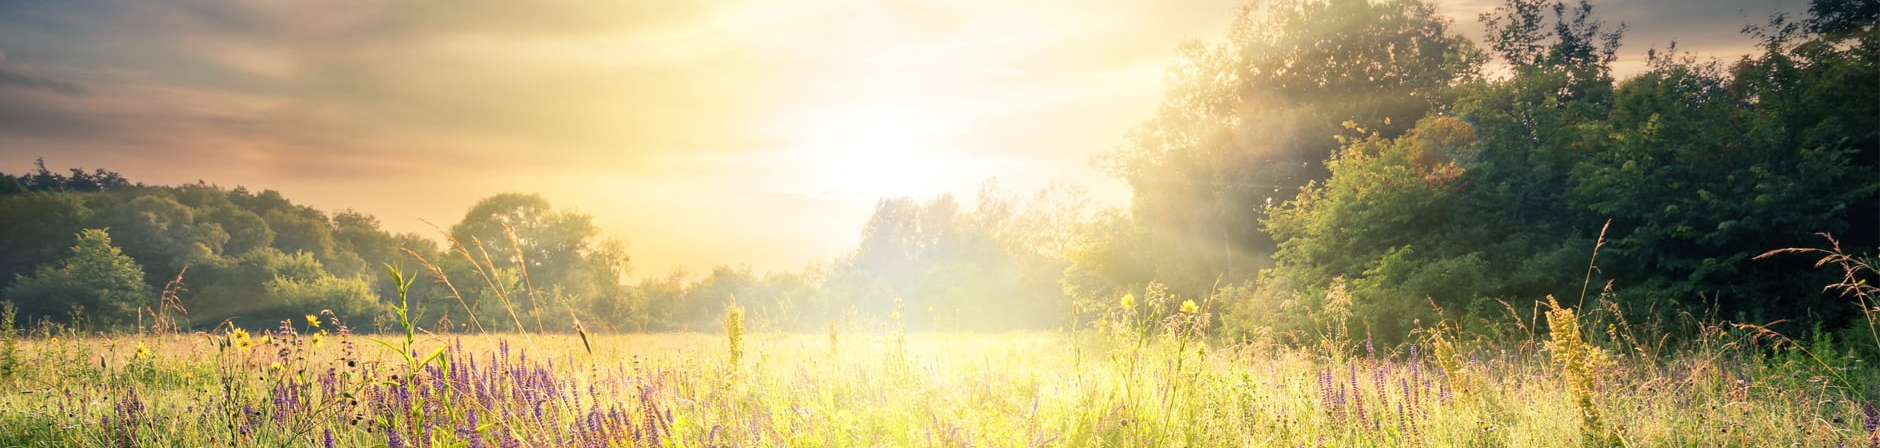
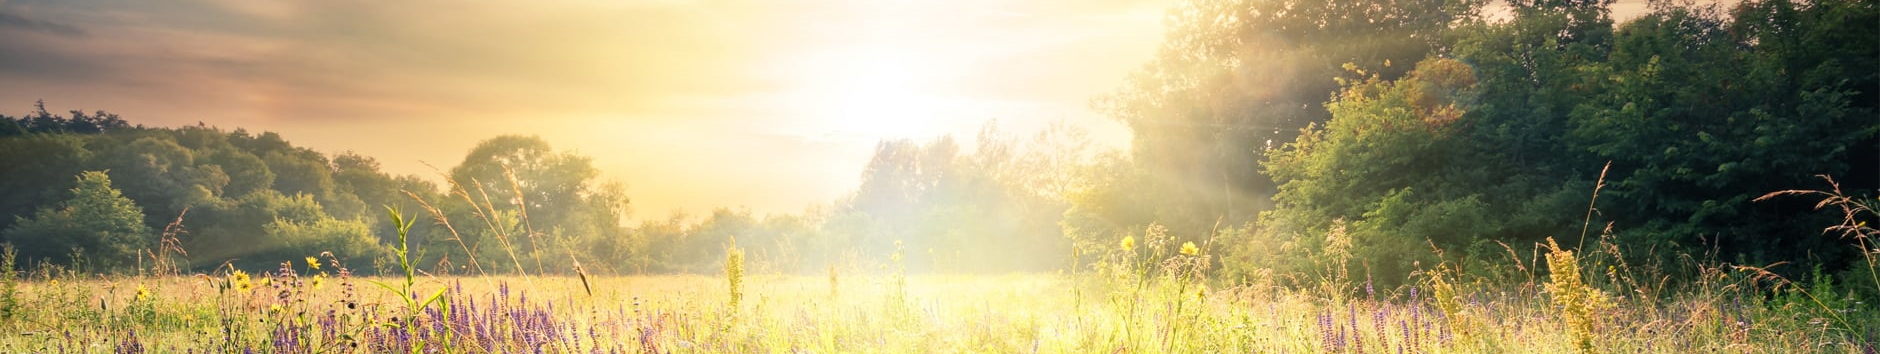
aaaaaaaaaaaaaaaaaaaaaaaaaaaaaaaaaaaaaaaa

diff --git a/src/main/web/structuring/shop.html b/src/main/web/structuring/shop.html
@@ -31,15 +31,7 @@
             </a>
         </li>
         <li>
-            <a href="#about">
-                <span>About</span>
-                <svg class="svg-icon" viewBox="0 0 20 20">
-                    <path d="M15.573,11.624c0.568-0.478,0.947-1.219,0.947-2.019c0-1.37-1.108-2.569-2.371-2.569s-2.371,1.2-2.371,2.569c0,0.8,0.379,1.542,0.946,2.019c-0.253,0.089-0.496,0.2-0.728,0.332c-0.743-0.898-1.745-1.573-2.891-1.911c0.877-0.61,1.486-1.666,1.486-2.812c0-1.79-1.479-3.359-3.162-3.359S4.269,5.443,4.269,7.233c0,1.146,0.608,2.202,1.486,2.812c-2.454,0.725-4.252,2.998-4.252,5.685c0,0.218,0.178,0.396,0.395,0.396h16.203c0.218,0,0.396-0.178,0.396-0.396C18.497,13.831,17.273,12.216,15.573,11.624 M12.568,9.605c0-0.822,0.689-1.779,1.581-1.779s1.58,0.957,1.58,1.779s-0.688,1.779-1.58,1.779S12.568,10.427,12.568,9.605 M5.06,7.233c0-1.213,1.014-2.569,2.371-2.569c1.358,0,2.371,1.355,2.371,2.569S8.789,9.802,7.431,9.802C6.073,9.802,5.06,8.447,5.06,7.233 M2.309,15.335c0.202-2.649,2.423-4.742,5.122-4.742s4.921,2.093,5.122,4.742H2.309z M13.346,15.335c-0.067-0.997-0.382-1.928-0.882-2.732c0.502-0.271,1.075-0.429,1.686-0.429c1.828,0,3.338,1.385,3.535,3.161H13.346z"></path>
-                </svg>
-            </a>
-        </li>
-        <li>
-            <a href="#contact">
+            <a href="contact.html">
                 <span>Contact</span>
                 <svg class="svg-icon" viewBox="0 0 20 20">
                     <path d="M12.075,10.812c1.358-0.853,2.242-2.507,2.242-4.037c0-2.181-1.795-4.618-4.198-4.618S5.921,4.594,5.921,6.775c0,1.53,0.884,3.185,2.242,4.037c-3.222,0.865-5.6,3.807-5.6,7.298c0,0.23,0.189,0.42,0.42,0.42h14.273c0.23,0,0.42-0.189,0.42-0.42C17.676,14.619,15.297,11.677,12.075,10.812 M6.761,6.775c0-2.162,1.773-3.778,3.358-3.778s3.359,1.616,3.359,3.778c0,2.162-1.774,3.778-3.359,3.778S6.761,8.937,6.761,6.775 M3.415,17.69c0.218-3.51,3.142-6.297,6.704-6.297c3.562,0,6.486,2.787,6.705,6.297H3.415z"></path>
@@ -64,7 +56,7 @@
 </div>
 
 <body id="top" class="container">
-<img src="/resources/shopBanner.png" width="100%" height="300px">
+<img class="banner" src="/resources/shopBanner.png" width="100%" height="5%">
 <main class="containerContent">
     <!--<section class="filterList">
         <form>
@@ -91,66 +83,55 @@
 
                 <section class="ProductsShop">
 
-                    <article>
-                        <img src="/iCHAIR_MC2.png">
+                    <article style="background-image: url('/resources/bla.png')">
+                        <img src="/resources/MWgrass.png">
                         <ul>
                             <li><p>Model XII</p></li>
-                            <li><p>Price 12€/day</p></li>
+                            <li><p>Price 7€ / day</p></li>
                             <li>
-                                <a href="product.html"><button title="go to shop">Select Product</button></a>
+                                <button title="go to shop">Select Product</button>
                             </li>
                         </ul>
                     </article>
 
-                    <article>
-                        <img src="/resources/wheelchair2.png">
+                    <article style="background-image: url('/resources/bla5.png')">
+                        <img src="/resources/Mountain-eTrike-Green.png">
                         <ul>
                             <li><p>Model XII</p></li>
-                            <li><p>Price 12€/day</p></li>
+                            <li><p>Price 7€ / day</p></li>
                             <li>
-                                <a href="product.html"><button title="go to shop">Select Product</button></a>
+                                <button title="go to shop">Select Product</button>
                             </li>
                         </ul>
                     </article>
 
-                    <article>
-                        <img src="/iCHAIR_MC2.png">
+                    <article style="background-image: url('/resources/bla2.png')">
+                        <img src="/resources/MWstone.png">
                         <ul>
                             <li><p>Model XII</p></li>
-                            <li><p>Price 12€/day</p></li>
+                            <li><p>Price 7€ / day</p></li>
                             <li>
-                                <a href="product.html"><button title="go to shop">Select Product</button></a>
+                                <button title="go to shop">Select Product</button>
                             </li>
                         </ul>
                     </article>
 
-                    <article>
-                        <img src="/resources/wheelchair2.png">
+                    <article style="background-image: url('/resources/bla3.png')">
+                        <img src="/resources/wheelchair3.2.png">
                         <ul>
                             <li><p>Model XII</p></li>
-                            <li><p>Price 12€/day</p></li>
+                            <li><p>Price 7€ / day</p></li>
                             <li>
-                                <a href="product.html"><button title="go to shop">Select Product</button></a>
+                                <button title="go to shop">Select Product</button>
                             </li>
                         </ul>
                     </article>
 
-                    <article>
-                        <img src="/iCHAIR_MC2.png">
+                    <article style="background-image: url('/resources/bla4.png')">
+                        <img src="/resources/wheelchair4.png">
                         <ul>
                             <li><p>Model XII</p></li>
-                            <li><p>Price 12€/day</p></li>
-                            <li>
-                                <a href="product.html"><button title="go to shop">Select Product</button></a>
-                            </li>
-                        </ul>
-                    </article>
-
-                    <article>
-                        <img src="/resources/wheelchair2.png">
-                        <ul>
-                            <li><p>Model XII</p></li>
-                            <li><p>Price 12€/day</p></li>
+                            <li><p>Price 7€ / day</p></li>
                             <li>
                                 <a href="product.html"><button title="go to shop">Select Product</button></a>
                             </li>
@@ -168,65 +149,56 @@
                 </div>
 
                 <section class="ProductsShop">
-                    <article>
-                        <img src="/iCHAIR_MC2.png">
+
+                    <article style="background-image: url('/resources/bla.png')">
+                        <img src="/resources/iCHAIR_MC2.png">
                         <ul>
                             <li><p>Model XII</p></li>
-                            <li><p>Price 12€/day</p></li>
+                            <li><p>Price 7€ / day</p></li>
                             <li>
-                                <a href="product.html"><button title="go to shop">Select Product</button></a>
+                                <button title="go to shop">Select Product</button>
                             </li>
                         </ul>
                     </article>
 
-                    <article>
+                    <article style="background-image: url('/resources/bla5.png')">
+                        <img src="/resources/Mountain-eTrike-Green.png">
+                        <ul>
+                            <li><p>Model XII</p></li>
+                            <li><p>Price 7€ / day</p></li>
+                            <li>
+                                <button title="go to shop">Select Product</button>
+                            </li>
+                        </ul>
+                    </article>
+
+                    <article style="background-image: url('/resources/bla2.png')">
                         <img src="/resources/wheelchair2.png">
                         <ul>
                             <li><p>Model XII</p></li>
-                            <li><p>Price 12€/day</p></li>
+                            <li><p>Price 7€ / day</p></li>
                             <li>
-                                <a href="product.html"><button title="go to shop">Select Product</button></a>
-                            </li>
-                        </ul>
-                    </article>
-                    <article>
-                        <img src="/iCHAIR_MC2.png">
-                        <ul>
-                            <li><p>Model XII</p></li>
-                            <li><p>Price 12€/day</p></li>
-                            <li>
-                                <a href="product.html"><button title="go to shop">Select Product</button></a>
+                                <button title="go to shop">Select Product</button>
                             </li>
                         </ul>
                     </article>
 
-                    <article>
-                        <img src="/resources/wheelchair2.png">
+                    <article style="background-image: url('/resources/bla3.png')">
+                        <img src="/resources/wheelchair3.2.png">
                         <ul>
                             <li><p>Model XII</p></li>
-                            <li><p>Price 12€/day</p></li>
+                            <li><p>Price 7€ / day</p></li>
                             <li>
-                                <a href="product.html"><button title="go to shop">Select Product</button></a>
+                                <button title="go to shop">Select Product</button>
                             </li>
                         </ul>
                     </article>
 
-                    <article>
-                        <img src="/iCHAIR_MC2.png">
+                    <article style="background-image: url('/resources/bla4.png')">
+                        <img src="/resources/wheelchair4.png">
                         <ul>
                             <li><p>Model XII</p></li>
-                            <li><p>Price 12€/day</p></li>
-                            <li>
-                                <a href="product.html"><button title="go to shop">Select Product</button></a>
-                            </li>
-                        </ul>
-                    </article>
-
-                    <article>
-                        <img src="/iCHAIR_MC2.png">
-                        <ul>
-                            <li><p>Model XII</p></li>
-                            <li><p>Price 12€/day</p></li>
+                            <li><p>Price 7€ / day</p></li>
                             <li>
                                 <a href="product.html"><button title="go to shop">Select Product</button></a>
                             </li>

diff --git a/src/main/web/structuring/contact.html b/src/main/web/structuring/contact.html
@@ -8,7 +8,7 @@
 
     <link rel="stylesheet" href="/styling/contact.css">
     <link rel="stylesheet" href="https://cdnjs.cloudflare.com/ajax/libs/font-awesome/6.0.0/css/all.min.css">
-    <script src="/scripting/index.js"></script>
+    <script src="/scripting/contact.js"></script>
 
 </head>
 
@@ -27,22 +27,6 @@
                 <span>Shop</span>
                 <svg class="svg-icon" viewBox="0 0 20 20">
                     <path d="M17.638,6.181h-3.844C13.581,4.273,11.963,2.786,10,2.786c-1.962,0-3.581,1.487-3.793,3.395H2.362c-0.233,0-0.424,0.191-0.424,0.424v10.184c0,0.232,0.191,0.424,0.424,0.424h15.276c0.234,0,0.425-0.191,0.425-0.424V6.605C18.062,6.372,17.872,6.181,17.638,6.181 M13.395,9.151c0.234,0,0.425,0.191,0.425,0.424S13.629,10,13.395,10c-0.232,0-0.424-0.191-0.424-0.424S13.162,9.151,13.395,9.151 M10,3.635c1.493,0,2.729,1.109,2.936,2.546H7.064C7.271,4.744,8.506,3.635,10,3.635 M6.605,9.151c0.233,0,0.424,0.191,0.424,0.424S6.838,10,6.605,10c-0.233,0-0.424-0.191-0.424-0.424S6.372,9.151,6.605,9.151 M17.214,16.365H2.786V7.029h3.395v1.347C5.687,8.552,5.332,9.021,5.332,9.575c0,0.703,0.571,1.273,1.273,1.273c0.702,0,1.273-0.57,1.273-1.273c0-0.554-0.354-1.023-0.849-1.199V7.029h5.941v1.347c-0.495,0.176-0.849,0.645-0.849,1.199c0,0.703,0.57,1.273,1.272,1.273s1.273-0.57,1.273-1.273c0-0.554-0.354-1.023-0.849-1.199V7.029h3.395V16.365z"></path>
-                </svg>
-            </a>
-        </li>
-        <li>
-            <a href="#about">
-                <span>About</span>
-                <svg class="svg-icon" viewBox="0 0 20 20">
-                    <path d="M15.573,11.624c0.568-0.478,0.947-1.219,0.947-2.019c0-1.37-1.108-2.569-2.371-2.569s-2.371,1.2-2.371,2.569c0,0.8,0.379,1.542,0.946,2.019c-0.253,0.089-0.496,0.2-0.728,0.332c-0.743-0.898-1.745-1.573-2.891-1.911c0.877-0.61,1.486-1.666,1.486-2.812c0-1.79-1.479-3.359-3.162-3.359S4.269,5.443,4.269,7.233c0,1.146,0.608,2.202,1.486,2.812c-2.454,0.725-4.252,2.998-4.252,5.685c0,0.218,0.178,0.396,0.395,0.396h16.203c0.218,0,0.396-0.178,0.396-0.396C18.497,13.831,17.273,12.216,15.573,11.624 M12.568,9.605c0-0.822,0.689-1.779,1.581-1.779s1.58,0.957,1.58,1.779s-0.688,1.779-1.58,1.779S12.568,10.427,12.568,9.605 M5.06,7.233c0-1.213,1.014-2.569,2.371-2.569c1.358,0,2.371,1.355,2.371,2.569S8.789,9.802,7.431,9.802C6.073,9.802,5.06,8.447,5.06,7.233 M2.309,15.335c0.202-2.649,2.423-4.742,5.122-4.742s4.921,2.093,5.122,4.742H2.309z M13.346,15.335c-0.067-0.997-0.382-1.928-0.882-2.732c0.502-0.271,1.075-0.429,1.686-0.429c1.828,0,3.338,1.385,3.535,3.161H13.346z"></path>
-                </svg>
-            </a>
-        </li>
-        <li>
-            <a href="#contact">
-                <span>Contact</span>
-                <svg class="svg-icon" viewBox="0 0 20 20">
-                    <path d="M12.075,10.812c1.358-0.853,2.242-2.507,2.242-4.037c0-2.181-1.795-4.618-4.198-4.618S5.921,4.594,5.921,6.775c0,1.53,0.884,3.185,2.242,4.037c-3.222,0.865-5.6,3.807-5.6,7.298c0,0.23,0.189,0.42,0.42,0.42h14.273c0.23,0,0.42-0.189,0.42-0.42C17.676,14.619,15.297,11.677,12.075,10.812 M6.761,6.775c0-2.162,1.773-3.778,3.358-3.778s3.359,1.616,3.359,3.778c0,2.162-1.774,3.778-3.359,3.778S6.761,8.937,6.761,6.775 M3.415,17.69c0.218-3.51,3.142-6.297,6.704-6.297c3.562,0,6.486,2.787,6.705,6.297H3.415z"></path>
                 </svg>
             </a>
         </li>
@@ -72,7 +56,7 @@
 <section class="employeefield">
     <section class="employee">
     <div class="image1">
-    <img style="float:left" src="/resources/harold.png" width="100%">
+    <img style="float:left" src="/resources/oliver.png" width="100%">
     </div>
     <div class="text1">
     <p class="p2">Oliver Hieke</p>

diff --git a/src/main/web/styling/scssStyling/shop.scss b/src/main/web/styling/scssStyling/shop.scss
@@ -243,6 +243,10 @@ html body main .ProductsShop:last-child {
 
 html body main .ProductsShop article {
   //flex-direction: row;
+  background-repeat: no-repeat;
+  background-position: center;
+  background-size: cover;
+  object-fit: cover;
   min-width: 250px;
   min-height: 300px;
   max-width: 250px;
@@ -250,6 +254,7 @@ html body main .ProductsShop article {
   background-color: #eee;
   border-radius: 1.75rem;
   box-shadow: inset 0 2px 5px 0 rgba(50, 50, 50, 0.3);
+  text-shadow: 0px 0px 5px #FFFFFF;
   //justify-items: flex-start;
 }
 

diff --git a/src/main/web/styling/shop.css b/src/main/web/styling/shop.css
@@ -170,6 +170,10 @@ html body main .ProductsShop:last-child {
 }
 
 html body main .ProductsShop article {
+  background-repeat: no-repeat;
+  background-position: center;
+  background-size: cover;
+  object-fit: cover;
   min-width: 250px;
   min-height: 300px;
   max-width: 250px;
@@ -177,6 +181,7 @@ html body main .ProductsShop article {
   background-color: #eee;
   border-radius: 1.75rem;
   box-shadow: inset 0 2px 5px 0 rgba(50, 50, 50, 0.3);
+  text-shadow: 0px 0px 5px #FFFFFF;
 }
 
 html body main .ProductsShop article img {
